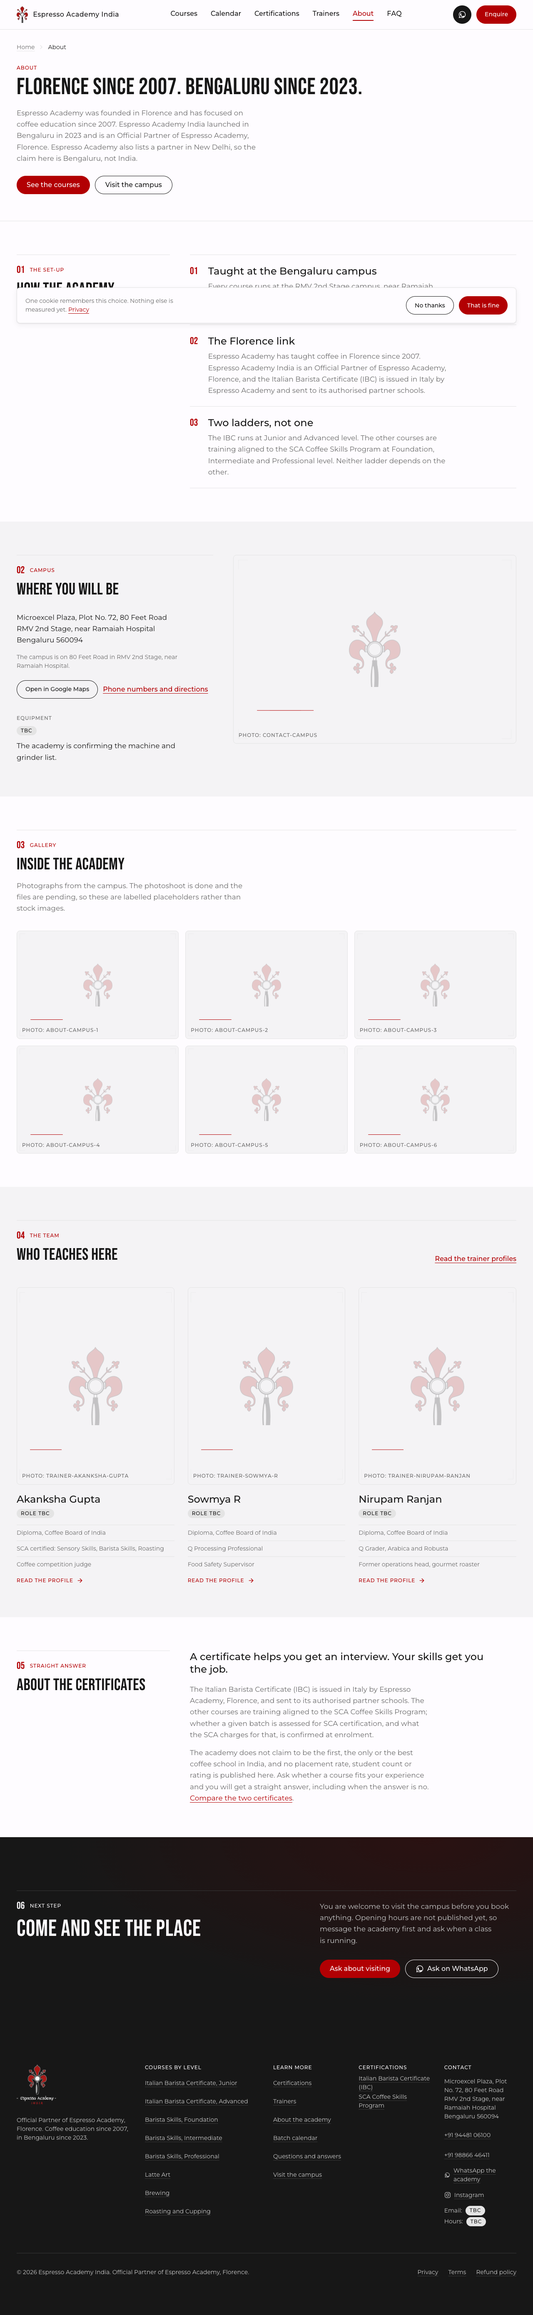
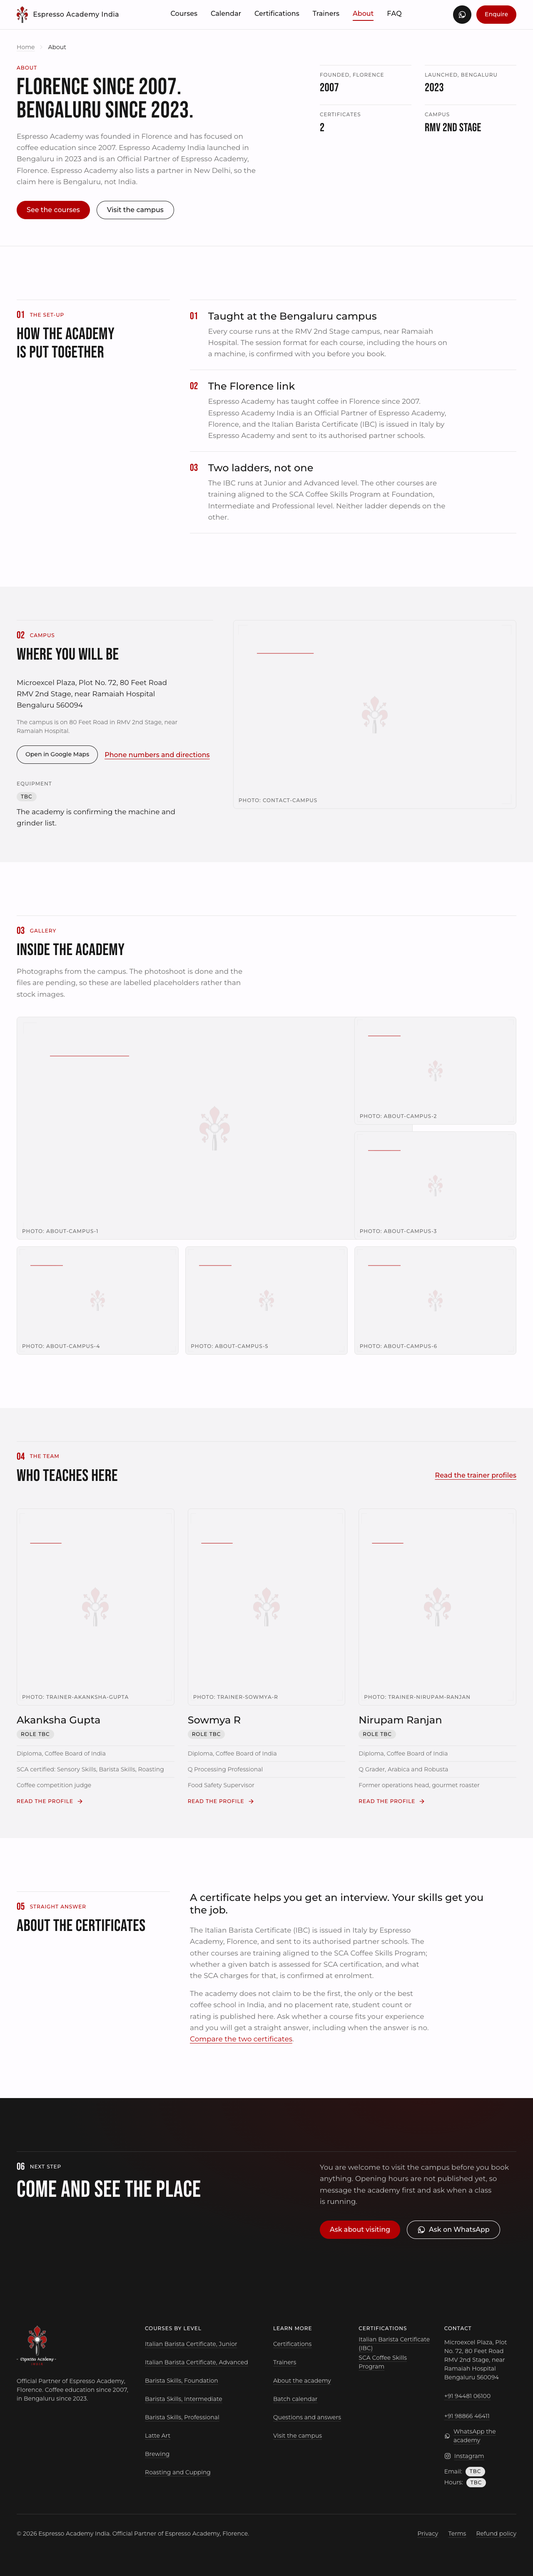
docs: status report, route list and repo README
STATUS.md gains the Phase 4, 8b and 9 entries, a table of every route built, and
the header composition as an explicit client sign-off item.

The README described the starter kit before the build. It now describes the repo:
how to run it, where the sources of truth are, how to add the client's content
without writing code, and the two traps worth knowing about before changing
anything.

Claude-Session: https://claude.ai/code/session_018SQWtZdWSx93z76i45toKF

diff --git a/docs/STATUS.md b/docs/STATUS.md
@@ -66,6 +66,16 @@ do. Updated at the end of every phase.
 - `/calendar`, which currently renders the "dates being finalised" state with a per-course batch
   alert, because no instance in `content/data.ts` carries a date.
 
+### Phase 4: the remaining pages
+
+- `/certifications` and `/certifications/[slug]`, `/trainers` and `/trainers/[slug]`, `/about`,
+  `/faq`, `/contact`, `/enquire`, `/thank-you`, `/privacy`, `/terms`, `/refund-policy`.
+- `/api/enquiry`: zod validation, honeypot and a two-second timing floor both dropped silently with
+  a 200 so a bot learns nothing, Resend when both env vars exist, and the pre-filled WhatsApp
+  handoff otherwise. It never throws at the reader.
+- `sitemap.ts`, `robots.ts` (AI crawlers allowed; `/api`, `/dev` and `/thank-you` held back),
+  `/llms.txt`, a default Open Graph card and one per course.
+
 ### Content pass
 
 The content-editor subagent audited every page's copy against `content/facts.md`. Applied:
@@ -160,6 +170,73 @@ Four real defects found and fixed: zod was shipping to the browser (about 50KB g
 banner was the Largest Contentful Paint on course pages at 2.4s; and a missing favicon was the only
 thing holding Best Practices at 96.
 
+### Phase 8b: de-template
+
+Two full design-review rounds at 390 and 1280 on `/`, `/courses`, a course page and `/about`.
+Screenshots in `docs/screens/`. First round scored 8 / 6.5 / 7 / 7. Everything it found is fixed,
+including one outright bug: the level filter rendered two chips both reading "All levels", the
+reset and the `open` level.
+
+The structural fixes, which were the ones that mattered:
+
+- "Which one is yours" on `/courses` was `AudienceDoors` a second time, one section below another
+  equal-column grid. The master prompt requires that guidance, so the content stayed and the
+  composition became a 4/8 split with numbered rows.
+- `/courses` and `/about` opened on desktop with half the viewport blank: neither passed an `aside`
+  to `PageHero`, so the 7/5 grid was never built.
+- The course page ran two identical 4/8 splits back to back, and `/about` put an even gallery grid
+  directly above an even trainer grid. Both resolved; section padding now alternates.
+- Nine identical placeholder marks on `/about` read as a wireframe. The mark is halved and at 10%.
+
+### Phase 9: deploy
+
+- Deployed to Vercel under `social-hippi/espresso-academy-india`.
+- Canonicals, Open Graph images and JSON-LD `@id`s fall back to `NEXT_PUBLIC_VERCEL_URL`, so a
+  preview describes itself rather than claiming production's URL.
+- Verified on the deployment: every route 200, no horizontal overflow at 390, no forbidden colour
+  pair, and Lighthouse mobile 90 to 96 Performance with 100 across Accessibility, Best Practices
+  and SEO.
+
+
+---
+
+## Every route built
+
+| Route | Indexed | Sticky bar | Notes |
+|---|---|---|---|
+| `/` | yes | yes | Home. The only place the red gradient is used on text. |
+| `/courses` | yes | yes | Server-rendered `?level=` and `?area=` filters; canonical always `/courses`. |
+| `/courses/italian-barista-certificate-junior` | yes | yes | Course page: spec strip, fit, syllabus, batches, fee, ladder, FAQ, related. Own OG card. |
+| `/courses/italian-barista-certificate-advanced` | yes | yes | Course page: spec strip, fit, syllabus, batches, fee, ladder, FAQ, related. Own OG card. |
+| `/courses/sca-barista-skills-foundation` | yes | yes | Course page: spec strip, fit, syllabus, batches, fee, ladder, FAQ, related. Own OG card. |
+| `/courses/sca-barista-skills-intermediate` | yes | yes | Course page: spec strip, fit, syllabus, batches, fee, ladder, FAQ, related. Own OG card. |
+| `/courses/sca-barista-skills-professional` | yes | yes | Course page: spec strip, fit, syllabus, batches, fee, ladder, FAQ, related. Own OG card. |
+| `/courses/latte-art` | yes | yes | Course page: spec strip, fit, syllabus, batches, fee, ladder, FAQ, related. Own OG card. |
+| `/courses/brewing` | yes | yes | Course page: spec strip, fit, syllabus, batches, fee, ladder, FAQ, related. Own OG card. |
+| `/courses/roasting-and-cupping` | yes | yes | Course page: spec strip, fit, syllabus, batches, fee, ladder, FAQ, related. Own OG card. |
+| `/calendar` | yes | yes | Currently the dates-being-finalised state with a per-course batch alert. |
+| `/certifications` | yes | yes | IBC and SCA compared, plus the honesty clause. |
+| `/certifications/italian-barista-certificate` | yes | yes | Question-shaped headings, answer-first. Article JSON-LD. |
+| `/certifications/sca-coffee-skills-program` | yes | yes | Question-shaped headings, answer-first. Article JSON-LD. |
+| `/trainers` | yes | yes | Three profiles. |
+| `/trainers/akanksha-gupta` | yes | yes | Person + hasCredential JSON-LD. Role and philosophy are TBC. |
+| `/trainers/sowmya-r` | yes | yes | Person + hasCredential JSON-LD. Role and philosophy are TBC. |
+| `/trainers/nirupam-ranjan` | yes | yes | Person + hasCredential JSON-LD. Role and philosophy are TBC. |
+| `/about` | yes | yes | Florence 2007, Bengaluru 2023, method, campus, gallery, team, honesty. |
+| `/faq` | yes | yes | Every question grouped by category, FAQPage JSON-LD. |
+| `/contact` | yes | yes | Switches the form to the cafe variant on `?topic=cafe`. |
+| `/enquire` | yes | no | The conversion page. No section navigation, no sticky bar. |
+| `/thank-you` | **no** | no | Post-submit. noindex. |
+| `/privacy` | yes | yes | Placeholder copy, `data-placeholder="true"`. |
+| `/terms` | yes | yes | Placeholder copy, `data-placeholder="true"`. |
+| `/refund-policy` | yes | yes | Placeholder copy, `data-placeholder="true"`. |
+| `/dev/components` | **no** | no | Internal component gallery, every state of every component. |
+
+Non-page routes: `/api/enquiry` (POST only), `/sitemap.xml`, `/robots.txt`, `/llms.txt`,
+`/opengraph-image`, `/courses/[slug]/opengraph-image`, `/icon.png`, `/apple-icon.png`.
+
+**26 indexable routes**, plus the non-indexed gallery.
+
 ---
 
 ## TBC for client
@@ -188,7 +265,8 @@ appears; no code change is needed.
 | 15 | Photos for every slot in `docs/images-manifest.md` | Hero, course cards, trainer profiles, about gallery, contact | no files in `public/images/` |
 | 16 | Testimonials with written permission | Student stories section | `stories` is empty and stays empty until then |
 | 17 | Legal copy: privacy, terms, refund policy | `/privacy`, `/terms`, `/refund-policy` | placeholder text marked `data-placeholder="true"` |
-| 18 | Logo as SVG | Header, footer, OG images | only raster renders in `public/logo/` |
+| 18 | Logo as SVG, and ideally a **horizontal lockup** | Header, footer, OG images | only raster renders in `public/logo/`, and the only lockup is stacked |
+| 18a | **Sign-off on the header composition.** The supplied stacked lockup's wordmark renders about 5.6px tall at header size, so the header pairs the supplied standalone mark with the academy name set in Montserrat 500. The artwork is untouched, but composing a lockup is a brand decision. A horizontal lockup makes this moot. | Header, every page | design.md assumes a horizontal lockup that was not supplied |
 | 19 | Gotham web licence | Site-wide type | Montserrat is the interim substitute |
 | 20 | Correct "Forest Green" hex | Seat-availability state | brochure prints `#89392B`, which is a brown |
 | 21 | Correct plot number and map pin | `/contact`, footer, JSON-LD | site says Plot No. 72, brochure says 9; map pin points at "Siddarth Plaza" |

diff --git a/README.md b/README.md
@@ -1,17 +1,82 @@
-# Espresso Academy India website: starter kit
+# Espresso Academy India
 
-This folder is dropped into an EMPTY repo before the first Claude Code prompt. It contains the rules, agents, facts, content, tokens and the single master prompt. Nothing here is site code; the prompt builds the site.
+Marketing and enrolment website for Espresso Academy India, a coffee education and barista training
+academy in Bengaluru and an Official Partner of Espresso Academy, Florence.
 
-## Steps (15 minutes of your time, then walk away)
-1. `mkdir espresso-academy && cd espresso-academy && git init` then copy the contents of this kit into it (including the hidden `.claude/` folder and `.mcp.json`).
-2. Put the client's photos into `public/images/` per `docs/images-manifest.md` if you have them. If not, skip; placeholders render.
-3. Copy `.env.example` to `.env.local`. Fill `LEAD_TO_EMAIL` and `RESEND_API_KEY` if you want the form to email (optional for the draft). Fill `CONTEXT7_API_KEY` (free key from context7.com) so the agent reads current Next 16 / Tailwind 4 docs.
-4. Make sure `pnpm`, Node 22 and Claude Code are installed, and `npx vercel login` has been run once so the preview deploy works. Run `claude mcp login vercel` once if prompted.
-5. Open the folder in Cursor, open the terminal, run `claude --permission-mode acceptEdits`, and paste the prompt from `docs/MASTER-PROMPT.md` (everything below the line).
-6. Come back in 2 to 4 hours. Read `docs/STATUS.md` and open the preview URL on your phone. Send the client `docs/CLIENT-REVIEW.md`.
+Next.js 16 (App Router), TypeScript strict, Tailwind v4, shadcn/ui on the Base UI base, pnpm.
 
-## What you get
-Every public page, the brand applied, verified facts only, TBC states for everything the client has not supplied, working enquiry form (email or WhatsApp handoff), metadata and structured data on every page, Playwright + axe tests, Lighthouse >= 90 mobile, a Vercel preview URL.
+## Running it
 
-## What is deliberately not in the draft
-Sanity CMS, Google Sheet lead log, GTM/GA4/Clarity, Turnstile, Razorpay, Cal.com, guides/blog, the reel. These follow client approval; see the execution strategy in the project.
+```
+pnpm install
+pnpm dev            # http://localhost:3000
+```
+
+```
+pnpm typecheck      # tsc --noEmit
+pnpm lint           # eslint, jsx-a11y at error
+pnpm build          # must pass before any commit touching src/
+pnpm start          # serve the production build
+pnpm test:e2e       # 639 Playwright tests: chromium, webkit, Pixel 7, iPhone 14
+```
+
+Two extra checks that are not part of the Playwright run, both expecting a server on port 3000:
+
+```
+node scripts/check-overflow.mjs        # every route, no horizontal overflow at 390
+node scripts/check-brand-contrast.mjs  # no red text on black, no mustard text, anywhere
+```
+
+## Where things are
+
+| Path | What it is |
+|---|---|
+| `content/facts.md` | **The only facts the site may state.** Anything not here is a TBC state on the page. |
+| `content/data.ts` | Typed content: courses, trainers, certifications, FAQs, site settings. Shaped 1:1 to a future Sanity schema. |
+| `design/tokens.css` | The brand tokens, pasted verbatim into `src/app/globals.css`. |
+| `.claude/rules/*.md` | Path-scoped rules for design, content, a11y, SEO, code and git. Non-negotiable. |
+| `docs/STATUS.md` | What is done, what is waiting on the client, the decisions taken, the known limitations. **Start here.** |
+| `docs/CLIENT-REVIEW.md` | The ten-minute review script to send the client with the preview link. |
+| `docs/images-manifest.md` | Where each photo goes and what its slot is called. |
+| `docs/audits/perf-draft.md` | Lighthouse numbers, what was fixed to get them, and what was tried and reverted. |
+| `src/lib/content.ts` | Typed accessors over `content/data.ts`. Pages never import the data module directly. |
+| `src/lib/format.ts` | Fee, duration and date formatting. Every function has a defined output for `null`. |
+| `src/lib/seo/` | Metadata helpers and the JSON-LD `@graph` builders. |
+| `tests/routes.json` | Every route the site ships. Drives the test suite. |
+
+## Adding the client's content, without writing code
+
+- **Fees, durations, dates, seats:** edit `content/data.ts`. Replace a `null` with a value, for
+  example `feeInclGst: 25300`. The TBC pills disappear on their own.
+- **Photos:** drop the files into `public/images/` with the names in `docs/images-manifest.md`.
+  The placeholders disappear. No code change.
+- **WhatsApp number, email, hours, reply promise:** `siteSettings` at the top of `content/data.ts`.
+- **Testimonials:** add to `stories` with `permission: true`. The empty state switches off by itself.
+- **A new fact of any kind:** add the line to `content/facts.md` first, with its source and date.
+  That file is the site's contract with the truth.
+
+## Two things to know before changing anything
+
+**Do not edit `src/components/ui/*` by hand.** Those are generated by the shadcn CLI; regenerate
+them instead. They import `cn` from the package, which `next.config.ts` aliases to `src/lib/cn.ts`
+so they get the merger configured with this project's theme. Without that alias the merger reads
+`text-body` as a colour and deletes the `text-white` beside it, which turned every WhatsApp button
+black-on-black once already.
+
+**Never invent a fact.** No fee, date, duration, count, rating, testimonial or superlative appears
+anywhere unless `content/facts.md` supports it. The test suite asserts this: it fails the build if a
+rupee figure, a star rating, a student count, the phrase "SCA certified course" or an
+India-first superlative appears on any page.
+
+## Environment
+
+Everything is optional. Copy `.env.example` to `.env.local`. Without `RESEND_API_KEY` and
+`LEAD_TO_EMAIL` the enquiry form hands the reader to WhatsApp with the message pre-filled, which is
+a working conversion path, not a failure state. On a Vercel preview, leave `NEXT_PUBLIC_SITE_URL`
+unset: the build falls back to that deployment's own URL so its canonicals describe itself.
+
+## What is deliberately not here
+
+Sanity, the Google Sheet lead log, GTM/GA4/Clarity, Turnstile, Razorpay, Cal.com, the guides and the
+reel. All follow client approval. The `data-event` attributes the analytics layer will need are
+already on every call to action.
